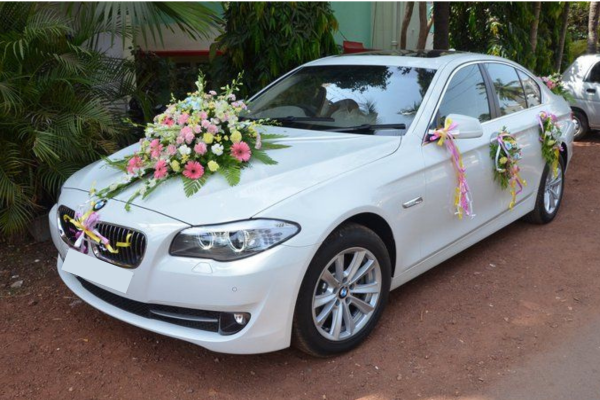
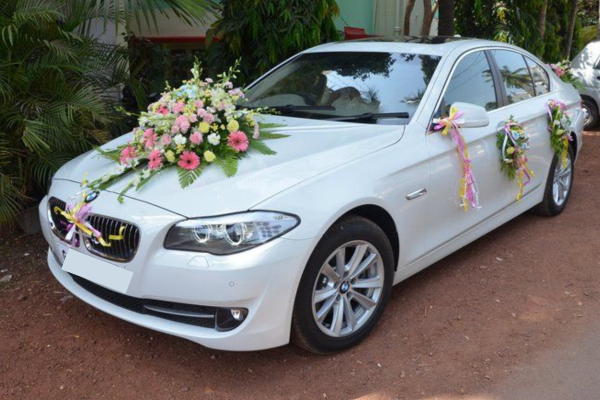
images replaced

diff --git a/about-us.html b/about-us.html
@@ -257,7 +257,7 @@
                         <div class="swiper-slide">
                             <div class="service-item wow fade-in-bottom" data-wow-delay="200ms">
                                 <div class="service-thumb">
-                                    <img src="assets/images/4n.jpeg" alt="img">
+                                    <img src="assets/images/4n.png" alt="img">
                                     <!-- <div class="service-shape-wrap">
                                         <div class="service-shape"></div>
                                     </div> -->

diff --git a/index.html b/index.html
@@ -323,7 +323,7 @@
                         <div class="swiper-slide">
                             <div class="service-item wow fade-in-bottom" data-wow-delay="200ms">
                                 <div class="service-thumb">
-                                    <img src="assets/images/4n.jpeg" alt="img">
+                                    <img src="assets/images/4n.png" alt="img">
                                     <!-- <div class="service-shape-wrap">
                                         <div class="service-shape"></div>
                                     </div> -->

diff --git a/our-services.html b/our-services.html
@@ -203,7 +203,7 @@
                 <div class="col-lg-4 col-sm-6 padding-15">
                     <div class="service-item">
                         <div class="service-thumb">
-                            <img src="assets/images/4n.jpeg" alt="img">
+                            <img src="assets/images/4n.png" alt="img">
                                     <!-- <div class="service-shape-wrap">
                                         <div class="service-shape"></div>
                                     </div>
